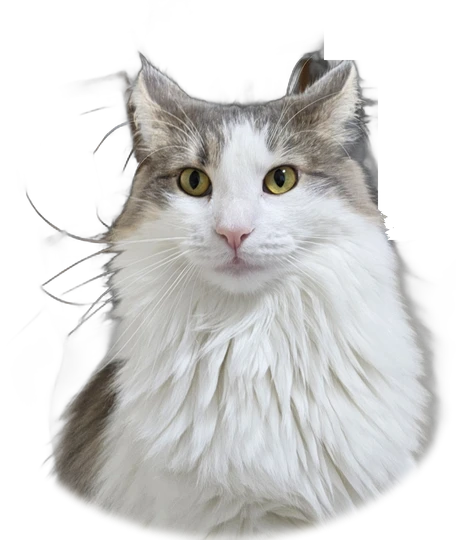
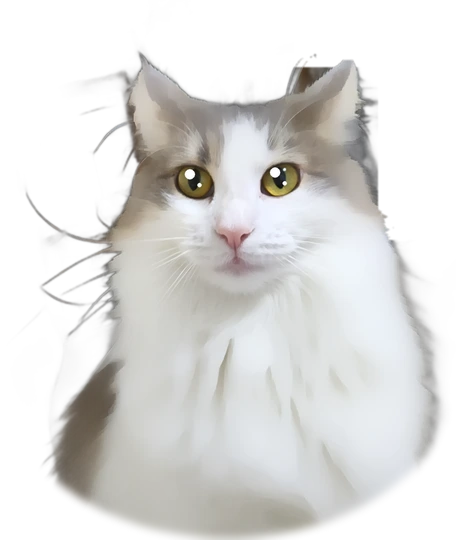
Playground: Ana as a soft painted illustration made from her photo (real mouth and face shape, slightly bigger eyes)
Claude-Session: https://claude.ai/code/session_01W4x6f7KtFbhsBZfqVxHVQA

diff --git a/william/tpl.html b/william/tpl.html
@@ -744,11 +744,10 @@ function drawAna(t) {
 	c.save(); c.rotate(sway * 0.012 - dip * 0.2); c.scale(1 + br * 0.004 + dip * 0.03, 1 + br * 0.008 + up * 0.03 - dip * 0.1); c.translate(-228, -540 + chew * 4);
 	c.drawImage(im, 0, 0, 456, 540);
 	if (lid > 0.02) for (const [ex, ey, rot] of [[195, 182, 0.1], [280, 180, -0.1]]) {  // まぶた（目の上から下りる）
-		c.save(); c.translate(ex, ey); c.rotate(rot); c.beginPath(); c.ellipse(0, 0, 21, 16, 0, 0, Math.PI * 2); c.clip();
-		const ly = -16 + lid * 32; c.fillStyle = '#d6cfc8'; c.fillRect(-22, -17, 44, ly + 17); c.strokeStyle = '#4a403a'; c.lineWidth = 2.2; c.beginPath(); c.moveTo(-22, ly - 2); c.quadraticCurveTo(0, ly + 3, 22, ly - 2); c.stroke(); c.restore();
+		c.save(); c.translate(ex, ey); c.rotate(rot); c.beginPath(); c.ellipse(0, 0, 25, 19, 0, 0, Math.PI * 2); c.clip();
+		const ly = -19 + lid * 38; c.fillStyle = '#ddd6cf'; c.fillRect(-26, -20, 52, ly + 20); c.strokeStyle = '#4a403a'; c.lineWidth = 2.2; c.beginPath(); c.moveTo(-26, ly - 2); c.quadraticCurveTo(0, ly + 3, 26, ly - 2); c.stroke(); c.restore();
 	}
-	if (mouth > 0.08) { c.fillStyle = '#7c2f3c'; c.beginPath(); c.ellipse(234, 262 + mouth * 3, 8 + mouth * 3, 2 + mouth * 7, 0, 0, Math.PI * 2); c.fill(); }
-	else if (lick > 0.05) { c.fillStyle = '#e58a98'; c.beginPath(); c.ellipse(234 + (lick - 0.5) * 14, 264, 6.5, 3 + lick * 6, (lick - 0.5) * 0.8, 0, Math.PI * 2); c.fill(); }  // ぺろっ
+	if (lick > 0.05) { c.fillStyle = '#ee9aa6'; c.strokeStyle = '#d27a88'; c.lineWidth = 1; c.beginPath(); c.moveTo(229, 262); c.quadraticCurveTo(228, 262 + lick * 11, 234, 263 + lick * 12); c.quadraticCurveTo(240, 262 + lick * 11, 239, 262); c.closePath(); c.fill(); c.stroke(); }  // ぺろっ（口は写真のまま、小さい舌だけ）
 	c.restore();
 	// ごはんのおさら（体の左まえ）
 	{ const bx = 0, by = 0; c.save(); c.translate(-150, -14); c.scale(1.25, 1.25); c.fillStyle = '#d9c7b0'; c.beginPath(); c.ellipse(bx, by + 6, 46, 11, 0, 0, Math.PI * 2); c.fill();
